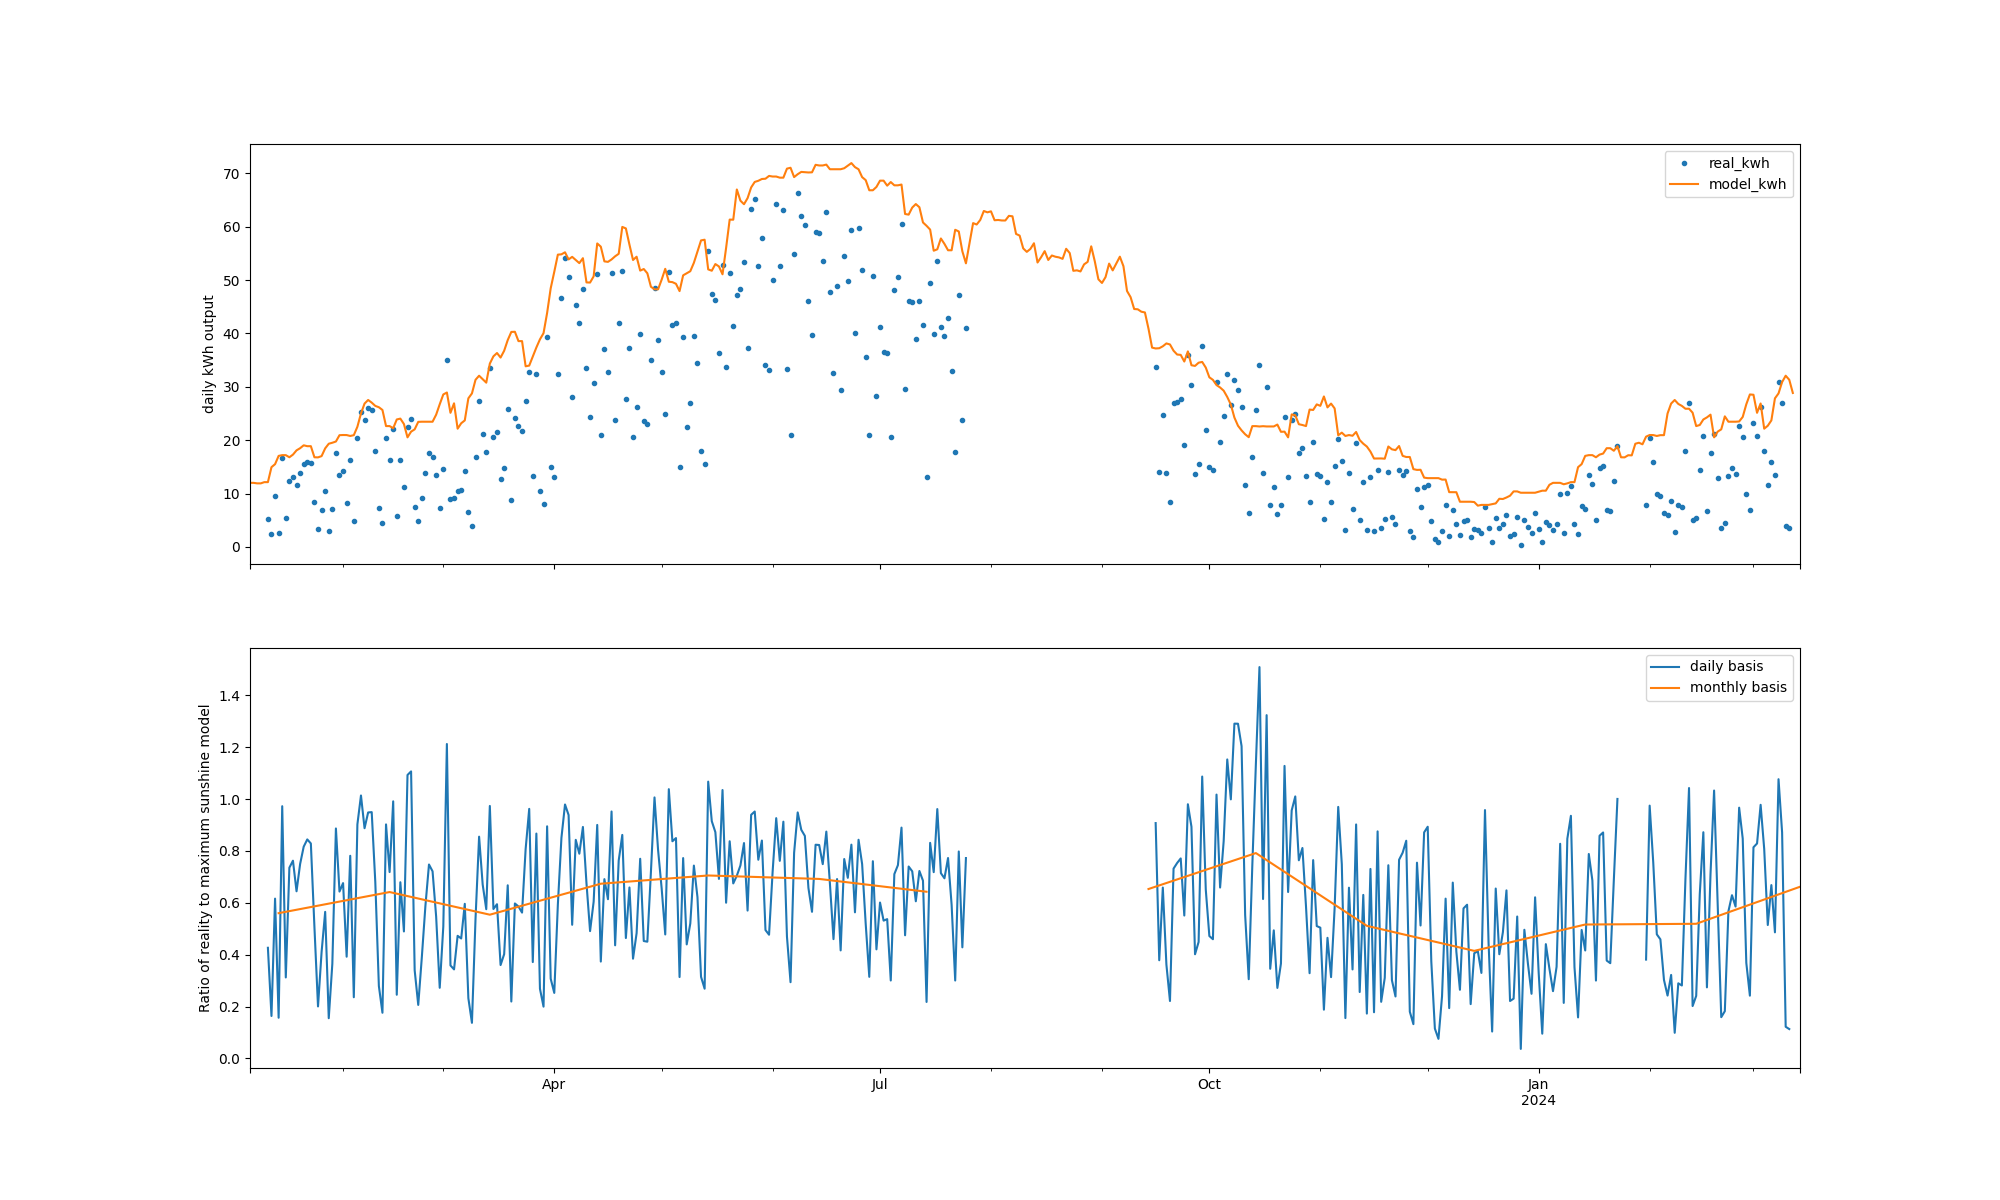
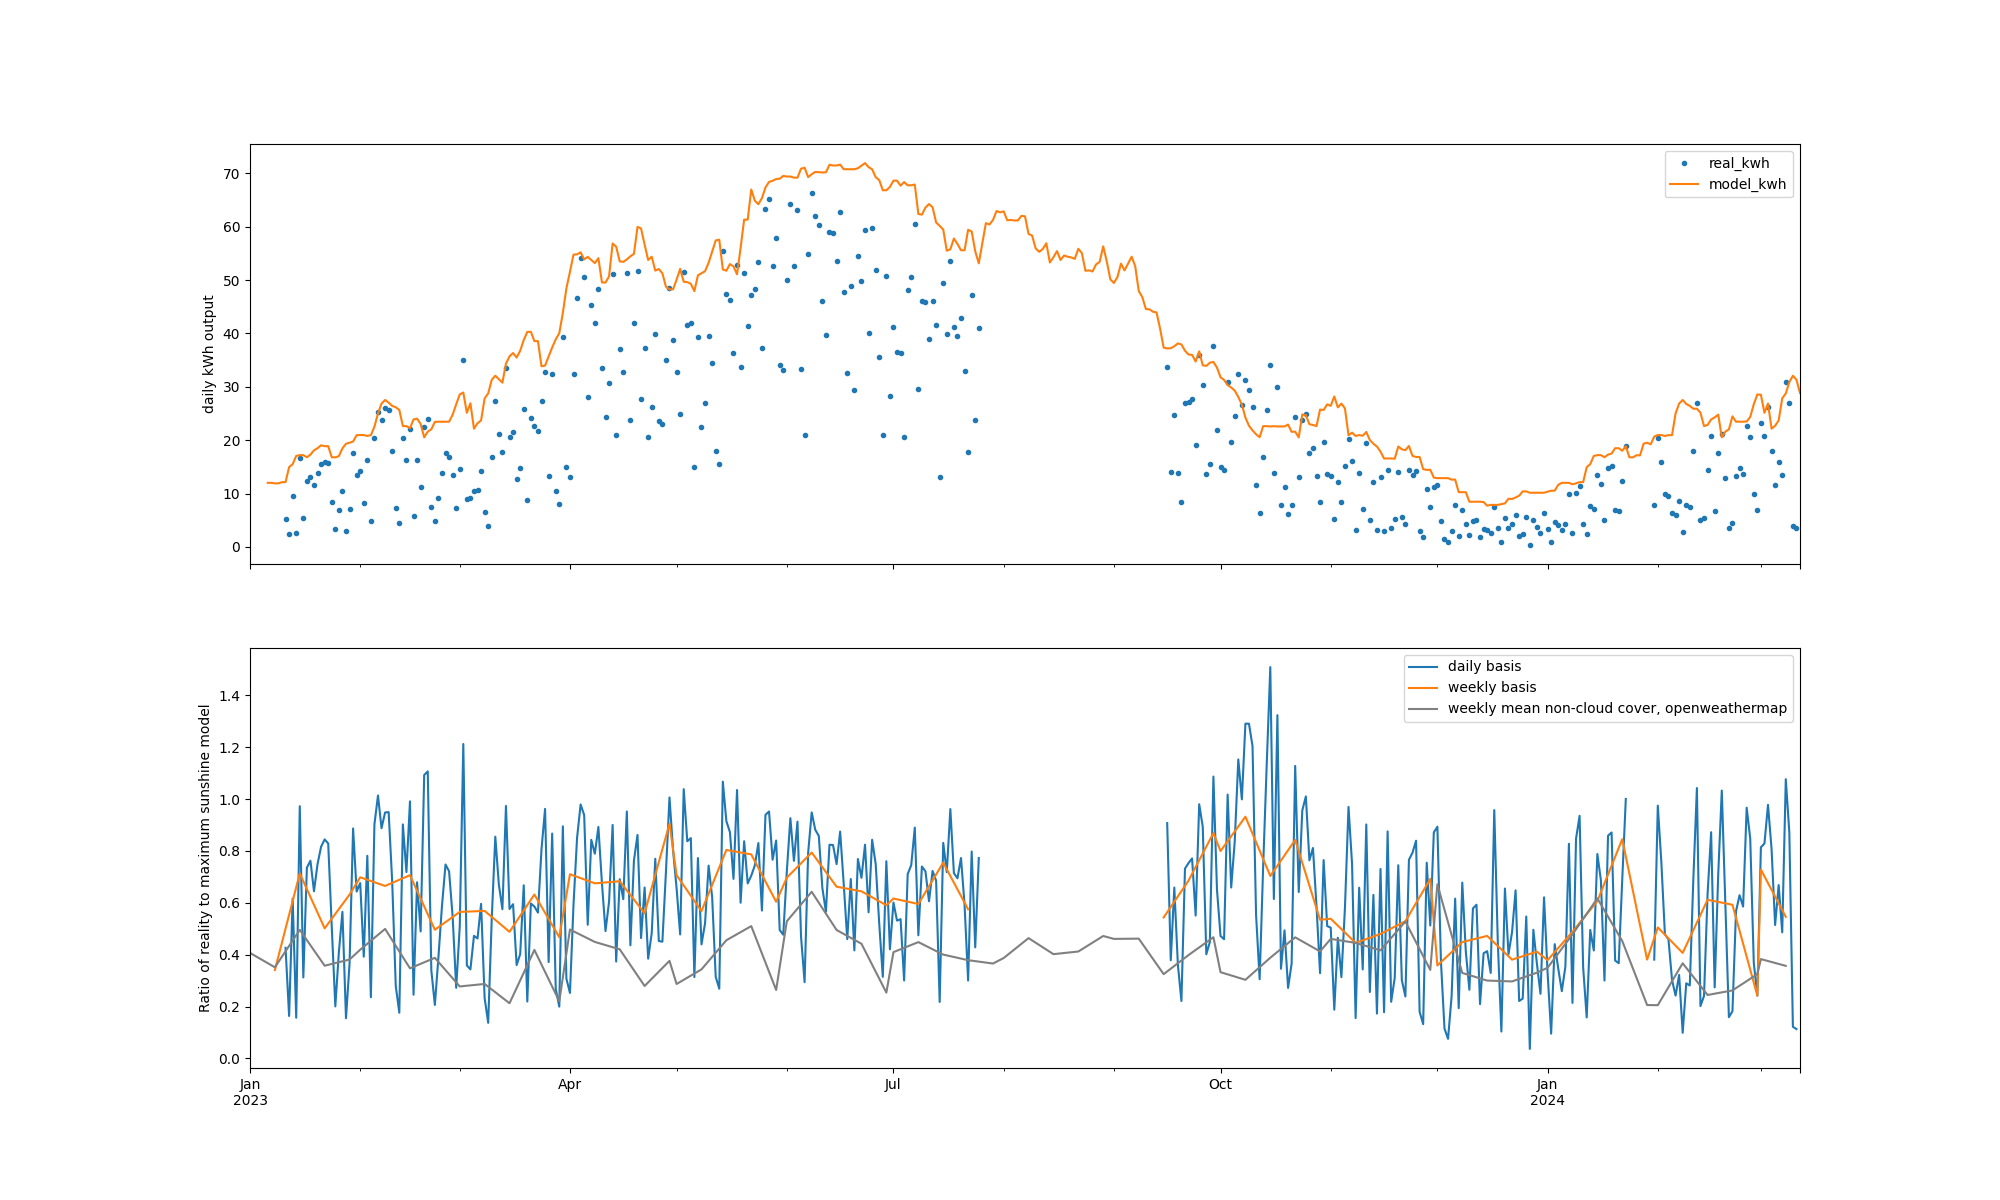
include cloud series

diff --git a/forecast.py b/forecast.py
@@ -1224,7 +1224,13 @@ def generate_solar_production(start="2023-01-06 00:00:00 Z", end=None, verbose=F
     combined = pd.concat([real, model, records], axis=1)
     return combined
 
+
+
 def plot_solar_production():
+    bucket_description = 'weekly'
+    def bucketround(t):
+        return datetime.datetime(year=t.year, month=t.month, day =((t.day-1) // 7)*7+1)
+
     combined = memoize('solar_production.pickle', generate_solar_production, max_age_days=14)
     
     combined['actual to max percentage'] = combined['real'] / combined['model']
@@ -1234,8 +1240,12 @@ def plot_solar_production():
     combined['real_kwh'] = combined['real'] / 1000.0
     combined['model_kwh'] = combined['model'] / 1000.0
 
-    monthlies = combined.groupby(combined.index.map(lambda t: datetime.datetime(year=t.year, month=t.month, day=14))).mean()
+    monthlies = combined.groupby(combined.index.map(bucketround)).mean()
     print(monthlies.to_string())
+    clouds = solar_model_record['clouds'].loc[solar_model_record['clouds'].index > '2023-01-01 00:00:00']
+    cloud_monthlies = 1 - clouds.groupby(clouds.index.map(bucketround)).mean() / 100
+    title('cloud boxes')
+    print(cloud_monthlies.to_string())
     plt.figure(figsize=(12, 8))
     f, axs = matplotlib.pyplot.subplots(2, 1, sharex=True)
     combined.plot(ax=axs[0], y='real_kwh', style='.')
@@ -1245,11 +1255,9 @@ def plot_solar_production():
     axs[0].set_ylabel("daily kWh output")
     axs[0].legend()
 
-    
-    
-
     fig = combined.plot(ax=axs[1], y='actual to max percentage', label='daily basis')
-    monthlies.plot(ax=axs[1], y='actual to max percentage', label='monthly basis')
+    monthlies.plot(ax=axs[1], y='actual to max percentage', label=bucket_description + ' basis')
+    cloud_monthlies.plot(ax=axs[1], y='cloud percentage', label=bucket_description +' mean non-cloud cover, openweathermap', color='grey', legend=True)
     axs[1].set_ylabel("Ratio of reality to maximum sunshine model")
     fig.get_figure().savefig('solaractual_to_max.png')
 
